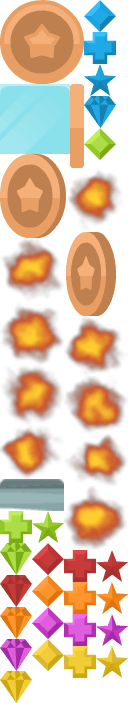
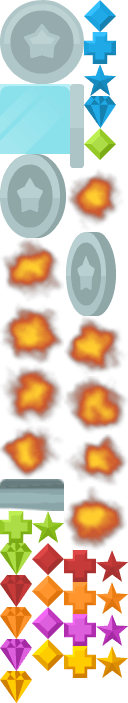
Updated sprites - changed medal to light silver, yellow gem is darker.

diff --git a/php/scores_db.php b/php/scores_db.php
@@ -3,8 +3,8 @@
 // uncomment line in php.ini where it has php-pgsql
 $host = 'localhost';
 $port = '5432';
-$dbname = 'postgres';
-$user = 'postgres';
+$dbname = 'tom';
+$user = 'tom';
 $db = pg_connect("host=$host port=$port dbname=$dbname user=$user password=Fanta");
 
 function insertScore($nickname, $score, $gameID)
